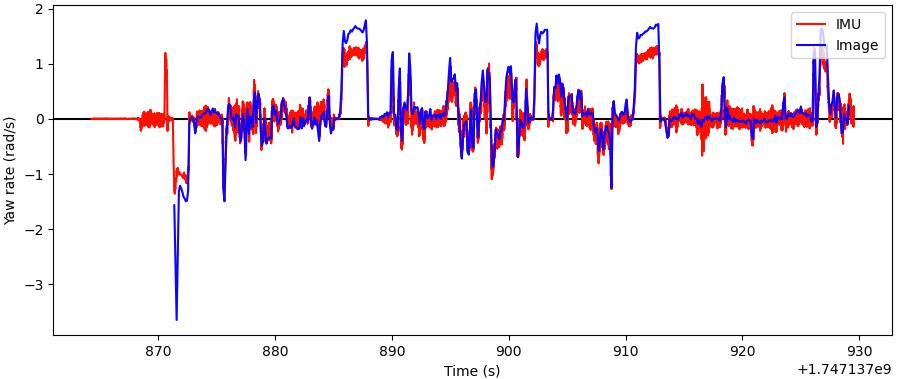
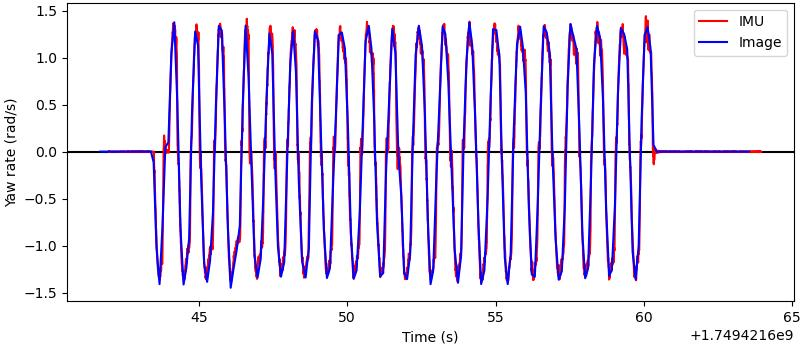
update

Changed region(s): [[0.0, 0.0, 0.9975, 1.0], [0.0312, 0.6977, 0.0935, 0.7849], [0.0312, 0.1453, 0.0935, 0.2035]]

diff --git a/src/extrinsic_latency_calib/script/latencyCalib.py b/src/extrinsic_latency_calib/script/latencyCalib.py
@@ -3,7 +3,7 @@ import numpy as np
 import os
 import matplotlib.pyplot as plt
 
-image_scale = 0.083;
+image_scale = 0.065;
 image_latency = 0;
 
 imu_array  = []

diff --git a/src/extrinsic_latency_calib/readme.md b/src/extrinsic_latency_calib/readme.md
@@ -2,7 +2,7 @@
 
 In the 'extrinsic_latency_calib/launch/extrinsic_calib.launch' file, set image resolution, 'imageWidth' and 'imageHeight'. Measure the camera offsets w.r.t. the lidar and set 'camX' (forward), 'camY' (left), and 'camZ' (up). If using a regular camera instead of a 360 camera, set 'is360Cam' to false, calibrate the camera intrinsics, and set image center, 'cx' and 'cy', focal length, 'fx' and 'fy', and distortion coefficients, 'k1', 'k2', 'p1', and 'p2'.
 
-Start the autonomy system and the camera driver. Then, use the command line below to launch the extrinsic calibration node. Users should see an image with lidar point cloud projected onto it, as shown below. Click the image to bring it to the front. Press '1-6' on the keyboard to adjust the camera angle and align the image with the lidar point cloud. Update 'camRoll', 'camPitch', and 'camYaw' in the launch file accordingly.
+Plug the camera into the computer with a USB cable, turn on the camera, and set it to live video mode (click the 'Mode' button until you see 'LIVE' under the camera icon on the screen). Start the camera driver and the autonomy system together. Then, use the command line below to launch the extrinsic calibration node. Users should see an image with lidar point cloud projected onto it as shown below. Click the image to bring it to the front. Press '1-6' on the keyboard to adjust the camera angle and align the image with the lidar point cloud. Update 'camRoll', 'camPitch', and 'camYaw' in the launch file accordingly.
 ```
   source install/setup.sh
   ros2 launch extrinsic_latency_calib extrinsic_calib.launch
@@ -14,7 +14,7 @@ Start the autonomy system and the camera driver. Then, use the command line belo
 
 ## Latency Calibration
 
-Start the autonomy system and the camera driver. Then, use the command line below to launch the latency calibration node. Users should see an image with tracked features, as shown below. The node saves an 'imu.txt' file and an 'image.txt' file in the 'extrinsic_latency_calib/data' folder. The format is described in the 'readme.txt' file in the same folder. Now, use the joystick to rotate the vehicle back and forth 20-30 times.
+Plug the camera into the computer with a USB cable, turn on the camera, and set it to live video mode (click the 'Mode' button until you see 'LIVE' under the camera icon on the screen). Start the camera driver and the autonomy system together. Then, use the command line below to launch the latency calibration node. Users should see an image with tracked features as shown below. The node saves an 'imu.txt' file and an 'image.txt' file in the 'extrinsic_latency_calib/data' folder. The format is described in the 'readme.txt' file in the same folder. Now, use the joystick to rotate the vehicle back and forth 20-30 times.
 ```
   source install/setup.sh
   ros2 launch extrinsic_latency_calib latency_calib.launch
